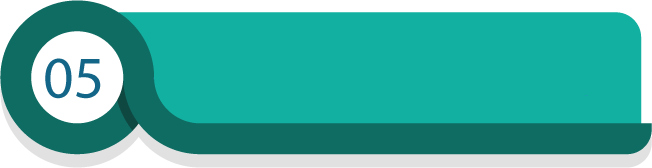
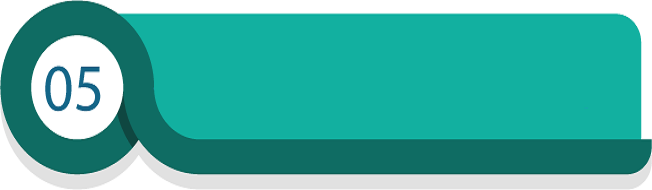
Updates on question page and diagram

diff --git a/CS/questions.html b/CS/questions.html
@@ -23,7 +23,7 @@
               <div class="questionOne questionMargin">
                 <div class="questionNo"></div>
                 <div class="question">
-                  <p><h4>Does the email sender looks familiar and from authentic domain?</h4></p>
+                  <p><h4>Do you know the email sender or sending authority?</h4></p>
                   <a href="#" class="btn btn-success btn-lg"><span class="glyphicon glyphicon-ok"></span> Yes</a>
                   <a href="#" class="btn btn-warning btn-lg"><span class="glyphicon glyphicon-remove"></span> No</a>
                 </div>
@@ -32,7 +32,7 @@
               <div class="questionTwo questionMargin">
                 <div class="questionNo"></div>
                 <div class="question">
-                  <p><h4>Does the email asking for personal info or money?</h4></p>
+                  <p><h4>Does the email ask for your address?</h4></p>
                   <a href="#" class="btn btn-success btn-lg"><span class="glyphicon glyphicon-ok"></span> Yes</a>
                   <a href="#" class="btn btn-warning btn-lg"><span class="glyphicon glyphicon-remove"></span> No</a>
                 </div>
@@ -41,7 +41,7 @@
               <div class="questionThree questionMargin">
                 <div class="questionNo"></div>
                 <div class="question">
-                  <p><h4>Is there any unrealistic threat in the email?</h4></p>
+                  <p><h4>Are you expecting an email which asks for your information?</h4></p>
                   <a href="#" class="btn btn-success btn-lg"><span class="glyphicon glyphicon-ok"></span> Yes</a>
                   <a href="#" class="btn btn-warning btn-lg"><span class="glyphicon glyphicon-remove"></span> No</a>
                 </div>
@@ -50,7 +50,7 @@
               <div class="questionFour questionMargin">
                 <div class="questionNo"></div>
                 <div class="question">
-                  <p><h4>Does the email contain link?</h4></p>
+                  <p><h4>Is someone giving you threat in the email?</h4></p>
                   <a href="#" class="btn btn-success btn-lg"><span class="glyphicon glyphicon-ok"></span> Yes</a>
                   <a href="#" class="btn btn-warning btn-lg"><span class="glyphicon glyphicon-remove"></span> No</a>
                 </div>
@@ -58,14 +58,39 @@
 
               <div class="questionFive questionMargin">
                 <div class="questionNo"></div>
-                <div class="question">
-                  <p><h4>Does the email link asking for personal info or money?</h4></p>
-                  <a href="#" class="btn btn-success btn-lg"><span class="glyphicon glyphicon-ok"></span> Yes</a>
-                  <a href="#" class="btn btn-warning btn-lg"><span class="glyphicon glyphicon-remove"></span> No</a>
+                <div class="question subques">
+                     <div class="subquesOne">
+                        <p><h4>Can you see any link in the email?</h4>
+                        <a href="#" class="btn btn-success btn-lg btn-subques active"><span class="glyphicon glyphicon-ok"></span> Yes</a>
+                        <a href="#" class="btn btn-warning btn-lg btn-subques"><span class="glyphicon glyphicon-remove"></span> No</a></p>
+                     </div>
+                     <div class="subquesTwo">
+                        <div class="subquesTwoQues">
+                             <h5>Does the link take you to a website and ask your information?</h5>
+                        </div>
+                         <div class="subquesTwoBtn">
+                             <a href="#" class="btn btn-success btn-lg btn-subques"><span class="glyphicon glyphicon-ok"></span> Yes</a>
+                             <a href="#" class="btn btn-warning btn-lg btn-subques"><span class="glyphicon glyphicon-remove"></span> No</a>
+                         </div>
+                     </div>
+                  </div>
                 </div>
+
+                <div class="finalQuestionDiv">
+                  <div class="finalQuestionArea">
+                    <h3>Do you think this is a phishing email?                     
+                    </h3>
+                     <i class="fa fa-question-circle" aria-hidden="true"></i>
+                  </div>
+                  <div class="finalQuestionBtn">
+                      <a href="#" class="btn btn-custom-green"><span class="glyphicon glyphicon-ok"></span> Yes</a>
+                      <a href="#" class="btn btn-custom-red"><span class="glyphicon glyphicon-remove"></span> No</a>
+                  </div>
+                </div>
+                <div class="showResultBtn"><a href="#" class="btn btn-primary btn-lg showResult disabled active"><span class="glyphicon glyphicon-hand-up"></span> Show Result</a></div>
               </div>
 
-              <div class="showResultBtn"><a href="#" class="btn btn-primary btn-lg showResult"><span class="glyphicon glyphicon-hand-up"></span> Show Result</a></div>
+              
           </div>
 
       </div> <!-- /container -->

diff --git a/CS/style.css b/CS/style.css
@@ -354,6 +354,10 @@ margin-bottom: 10px;
 }
 
 /*Question Template*/
+.questionBody{
+	width: 80%;
+	font-family: 'georgia';
+}
 .questionArea{
 	max-width: 512px;
 	margin: auto;
@@ -391,13 +395,14 @@ margin-bottom: 10px;
 }
 .questionFive{
 	background: url(./img/questions/5.png);
-	height: 140px;
+	height: 160px;
 	background-size: contain;
 	background-repeat: no-repeat;
+	padding-left: 0px;
 
 }
 .questionMargin{
-	margin-bottom: -10px;
+	margin-bottom: -25px;
 }
 .questionNo{
 
@@ -414,7 +419,7 @@ margin-bottom: 10px;
 
 }
 .question h4{
-	font-size: 16px;
+	font-size: 15px;
     text-shadow: 1px 1px 2px #f7f4f4;
     color: #000;
     font-weight: bold;
@@ -434,14 +439,15 @@ margin-bottom: 10px;
 	box-shadow: 1px 2px 4px 1px #333;
 }
 .showResultBtn{
-	width: 270px;
+	width: 205px;
 	margin: auto;
 }
 .showResult{
-	width: 300px;
+	width: 200px;
 	box-shadow: 1px 2px 4px 1px #333;
 	font-size: 25px;
-	padding: 20px;
+	padding-top: 20px;
+	padding-bottom: 20px;
 	border-radius: 10px;
 	margin: auto;
 
@@ -461,4 +467,112 @@ margin-bottom: 10px;
   color: #fff !important;
   text-shadow: 0 -1px 0 rgba(0, 0, 0, 0.52);
   -webkit-font-smoothing: antialiased;
+}
+.subques h4{
+	font-size: 14px;
+}
+.subques h5{
+	font-size: 13px;
+}
+.btn-subques{
+	margin-right: 20px;
+    box-shadow: 1px 2px 4px 1px #333;
+    margin-top: -15px;
+    padding: 4px;
+    font-size: 12px;
+}
+.subquesOne{
+	margin-left: -70px;
+}
+.subquesTwo{
+	margin-top: -10px;
+}
+.subquesTwo .btn-subques{
+	margin-right: 10px;
+    box-shadow: 1px 2px 4px 1px #333;
+
+    padding: 2px;
+    font-size: 12px;
+    border-radius: 3px;
+
+
+}
+.subquesTwoQues{
+	float: left;
+	width: 67%;
+}
+.subquesTwoBtn{
+	float: right;
+    width: 115px;
+    margin-top: 20px;
+}
+
+.btn-custom-red {
+  background-color: hsl(0, 93%, 19%) !important;
+  background-repeat: repeat-x;
+  filter: progid:DXImageTransform.Microsoft.gradient(startColorstr="#f73535", endColorstr="#5d0303");
+  background-image: -khtml-gradient(linear, left top, left bottom, from(#f73535), to(#5d0303));
+  background-image: -moz-linear-gradient(top, #f73535, #5d0303);
+  background-image: -ms-linear-gradient(top, #f73535, #5d0303);
+  background-image: -webkit-gradient(linear, left top, left bottom, color-stop(0%, #f73535), color-stop(100%, #5d0303));
+  background-image: -webkit-linear-gradient(top, #f73535, #5d0303);
+  background-image: -o-linear-gradient(top, #f73535, #5d0303);
+  background-image: linear-gradient(#f73535, #5d0303);
+  border-color: #5d0303 #5d0303 hsl(0, 93%, 9%);
+  color: #fff !important;
+  text-shadow: 0 -1px 0 rgba(0, 0, 0, 0.66);
+  -webkit-font-smoothing: antialiased;
+}
+.btn-custom-green {
+  background-color: hsl(110, 66%, 6%) !important;
+  background-repeat: repeat-x;
+  filter: progid:DXImageTransform.Microsoft.gradient(startColorstr="#3eba26", endColorstr="#081905");
+  background-image: -khtml-gradient(linear, left top, left bottom, from(#3eba26), to(#081905));
+  background-image: -moz-linear-gradient(top, #3eba26, #081905);
+  background-image: -ms-linear-gradient(top, #3eba26, #081905);
+  background-image: -webkit-gradient(linear, left top, left bottom, color-stop(0%, #3eba26), color-stop(100%, #081905));
+  background-image: -webkit-linear-gradient(top, #3eba26, #081905);
+  background-image: -o-linear-gradient(top, #3eba26, #081905);
+  background-image: linear-gradient(#3eba26, #081905);
+  border-color: #081905 #081905 hsl(110, 66%, -3.5%);
+  color: #fff !important;
+  text-shadow: 0 -1px 0 rgba(0, 0, 0, 0.62);
+  -webkit-font-smoothing: antialiased;
+}
+.finalQuestionArea{
+	width: 325px;
+	float: left;
+	line-height: 160px;
+	vertical-align: middle;
+}
+.finalQuestionDiv{
+	min-height: 136px;
+    background: #d1d0d4;
+    margin-top: 20px;
+    border-radius: 15px;
+    box-shadow: 5px 5px 5px #446;
+}
+.finalQuestionArea h3{
+	font-size: 25px;
+	width: 270px;
+	text-align: center;
+	float: left;
+	margin-top: 34px;
+
+	vertical-align: middle;
+}
+.finalQuestionArea .fa{
+	font-size: 60px;
+}
+.finalQuestionBtn{
+	width: 100px;
+	float: right;
+	margin-right: 20px;
+	margin-top: 10px;
+}
+.finalQuestionBtn .btn{
+	display: block;
+	line-height: 40px;
+	vertical-align: middle;
+	margin-bottom: 10px;
 }
